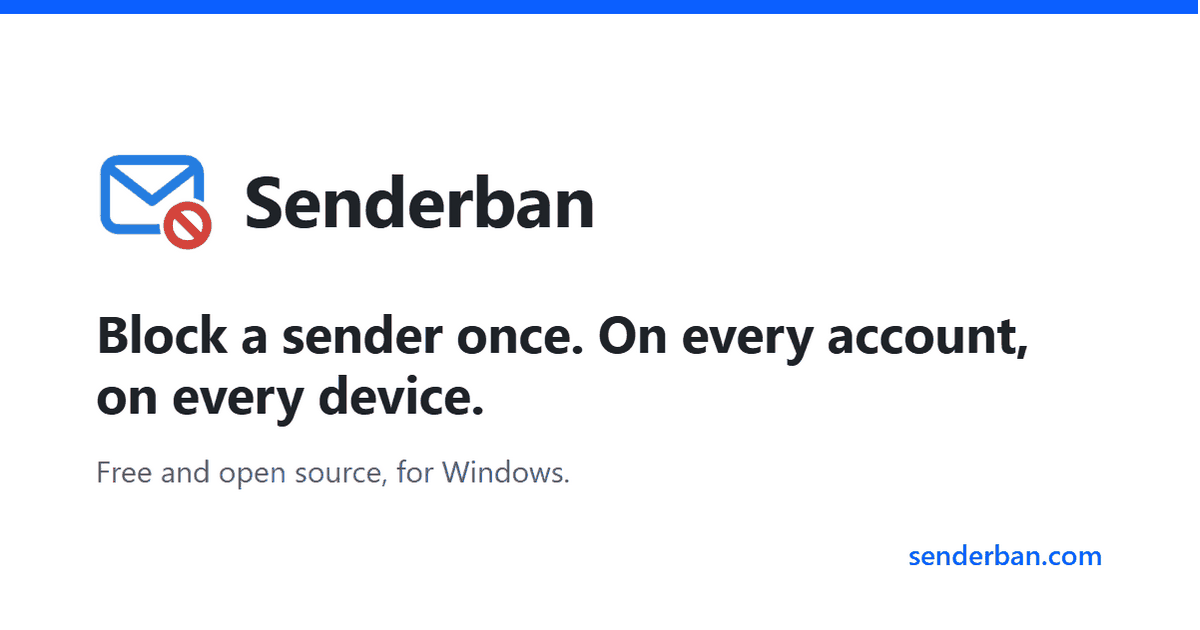
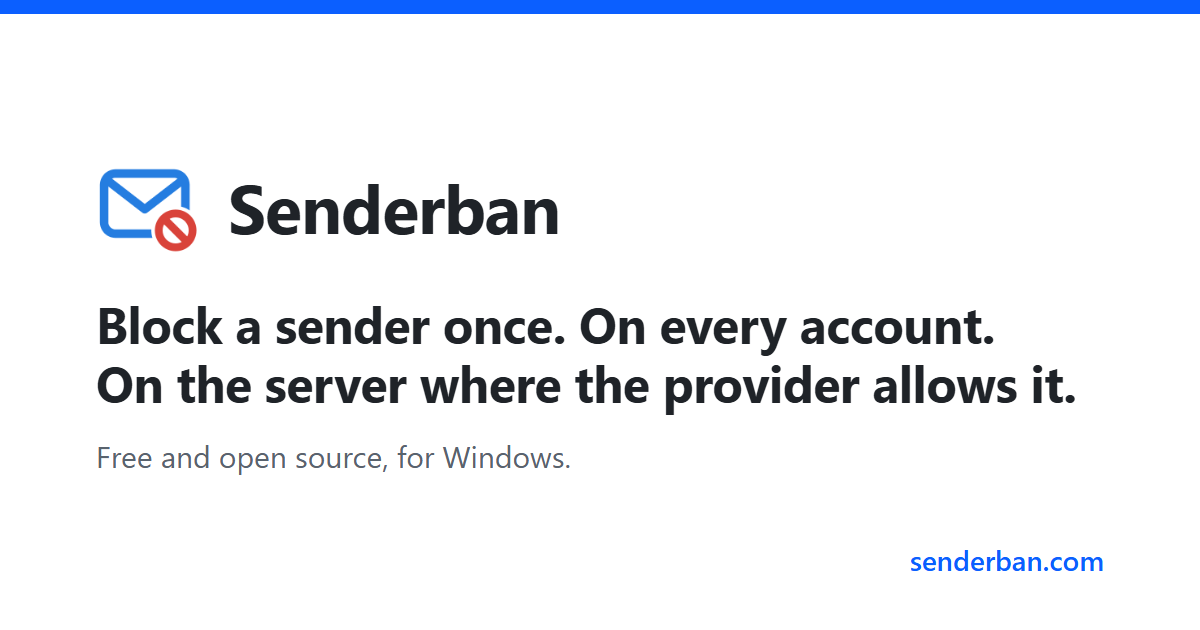
docs(site): the headline and the link preview state where a block holds: a server rule only where the provider allows it, IMAP has none, Gmail takes single addresses

diff --git a/docs/engineering/index.html b/docs/engineering/index.html
@@ -10,7 +10,7 @@
     <title>How Senderban is built</title>
     <meta
       name="description"
-      content="The architecture, security model, scale budget and decision records behind Senderban, a desktop app that writes block rules to your mail server."
+      content="The architecture, security model, scale budget and decision records behind Senderban, a desktop app that writes block rules to your mail server where the provider allows it."
     />
     <meta name="color-scheme" content="light dark" />
     <link rel="canonical" href="https://senderban.com/engineering/" />
@@ -19,7 +19,7 @@
     <meta property="og:title" content="How Senderban is built" />
     <meta
       property="og:description"
-      content="The architecture, security model, scale budget and decision records behind Senderban, a desktop app that writes block rules to your mail server."
+      content="The architecture, security model, scale budget and decision records behind Senderban, a desktop app that writes block rules to your mail server where the provider allows it."
     />
     <meta property="og:url" content="https://senderban.com/engineering/" />
     <meta property="og:image" content="https://senderban.com/assets/og.png" />
@@ -27,7 +27,7 @@
     <meta property="og:image:height" content="630" />
     <meta
       property="og:image:alt"
-      content="Senderban: block a sender once, on every account, on every device."
+      content="Senderban: block a sender once, on every account, on the server where the provider allows it."
     />
     <meta name="twitter:card" content="summary_large_image" />
     <link rel="icon" href="/assets/icon.png" type="image/png" />
@@ -79,7 +79,7 @@
           <div
             class="arch"
             role="img"
-            aria-label="Layers: the desktop app on top of the core, the core talking to providers through five adapters, each provider keeping the rule on its own server."
+            aria-label="Layers: the desktop app on top of the core, the core talking to providers through five adapters. A provider that offers rules keeps the rule on its own server; on a plain IMAP mailbox the app moves the mail itself."
           >
             <div class="arch-layer">
               <p class="arch-name">apps/desktop <small>Electron</small></p>
@@ -106,7 +106,7 @@
             <div class="arch-layer arch-server">
               <p class="arch-name">Your mail provider</p>
               <div class="arch-boxes">
-                <span>The rule lives here, so it holds on every device</span>
+                <span>Where it offers rules, the rule lives here and holds on every device</span>
               </div>
             </div>
           </div>

diff --git a/docs/index.html b/docs/index.html
@@ -27,7 +27,7 @@
     <meta property="og:image:height" content="630" />
     <meta
       property="og:image:alt"
-      content="Senderban: block a sender once, on every account, on every device."
+      content="Senderban: block a sender once, on every account, on the server where the provider allows it."
     />
     <meta name="twitter:card" content="summary_large_image" />
     <script type="application/ld+json">
@@ -80,7 +80,9 @@
       <div class="wrap hero">
         <div>
           <p class="eyebrow">v0.2 · Windows · free and open source</p>
-          <h1>Block a sender once. On every account, on every device.</h1>
+          <h1>
+            Block a sender once. On every account. On the server where the provider allows it.
+          </h1>
           <p class="lead">
             When unwanted mail arrives, the Windows notification offers the block. One click writes
             the rule on your mail provider's own server where it offers one, so it holds on your
@@ -158,8 +160,9 @@
             <li>
               <h3>Block in one click</h3>
               <p>
-                Choose this sender or the whole domain. The block applies to every account you
-                added: as a rule on the server where the provider has one, read back to confirm.
+                Choose this sender or the whole domain (Gmail: single addresses only). The block
+                applies to every account you added: as a rule on the server where the provider has
+                one, read back to confirm.
               </p>
             </li>
           </ol>

diff --git a/docs/writing/outlook-domain-text-match/index.html b/docs/writing/outlook-domain-text-match/index.html
@@ -29,7 +29,7 @@
     <meta property="og:image:height" content="630" />
     <meta
       property="og:image:alt"
-      content="Senderban: block a sender once, on every account, on every device."
+      content="Senderban: block a sender once, on every account, on the server where the provider allows it."
     />
     <meta property="article:published_time" content="2026-11-02" />
     <meta name="twitter:card" content="summary_large_image" />

diff --git a/docs/writing/provider-from-address/index.html b/docs/writing/provider-from-address/index.html
@@ -29,7 +29,7 @@
     <meta property="og:image:height" content="630" />
     <meta
       property="og:image:alt"
-      content="Senderban: block a sender once, on every account, on every device."
+      content="Senderban: block a sender once, on every account, on the server where the provider allows it."
     />
     <meta property="article:published_time" content="2026-11-02" />
     <meta name="twitter:card" content="summary_large_image" />

diff --git a/docs/writing/scale-budget-desktop-app/index.html b/docs/writing/scale-budget-desktop-app/index.html
@@ -26,7 +26,7 @@
     <meta property="og:image:height" content="630" />
     <meta
       property="og:image:alt"
-      content="Senderban: block a sender once, on every account, on every device."
+      content="Senderban: block a sender once, on every account, on the server where the provider allows it."
     />
     <meta property="article:published_time" content="2026-11-02" />
     <meta name="twitter:card" content="summary_large_image" />

diff --git a/docs/writing/index.html b/docs/writing/index.html
@@ -26,7 +26,7 @@
     <meta property="og:image:height" content="630" />
     <meta
       property="og:image:alt"
-      content="Senderban: block a sender once, on every account, on every device."
+      content="Senderban: block a sender once, on every account, on the server where the provider allows it."
     />
     <meta name="twitter:card" content="summary_large_image" />
     <link rel="canonical" href="https://senderban.com/writing/" />

diff --git a/docs/privacy/index.html b/docs/privacy/index.html
@@ -27,7 +27,7 @@
     <meta property="og:image:height" content="630" />
     <meta
       property="og:image:alt"
-      content="Senderban: block a sender once, on every account, on every device."
+      content="Senderban: block a sender once, on every account, on the server where the provider allows it."
     />
     <meta name="twitter:card" content="summary_large_image" />
     <link rel="icon" href="/assets/icon.png" type="image/png" />

diff --git a/docs/work/index.html b/docs/work/index.html
@@ -26,7 +26,7 @@
     <meta property="og:image:height" content="630" />
     <meta
       property="og:image:alt"
-      content="Senderban: block a sender once, on every account, on every device."
+      content="Senderban: block a sender once, on every account, on the server where the provider allows it."
     />
     <meta name="twitter:card" content="summary_large_image" />
     <script type="application/ld+json">
